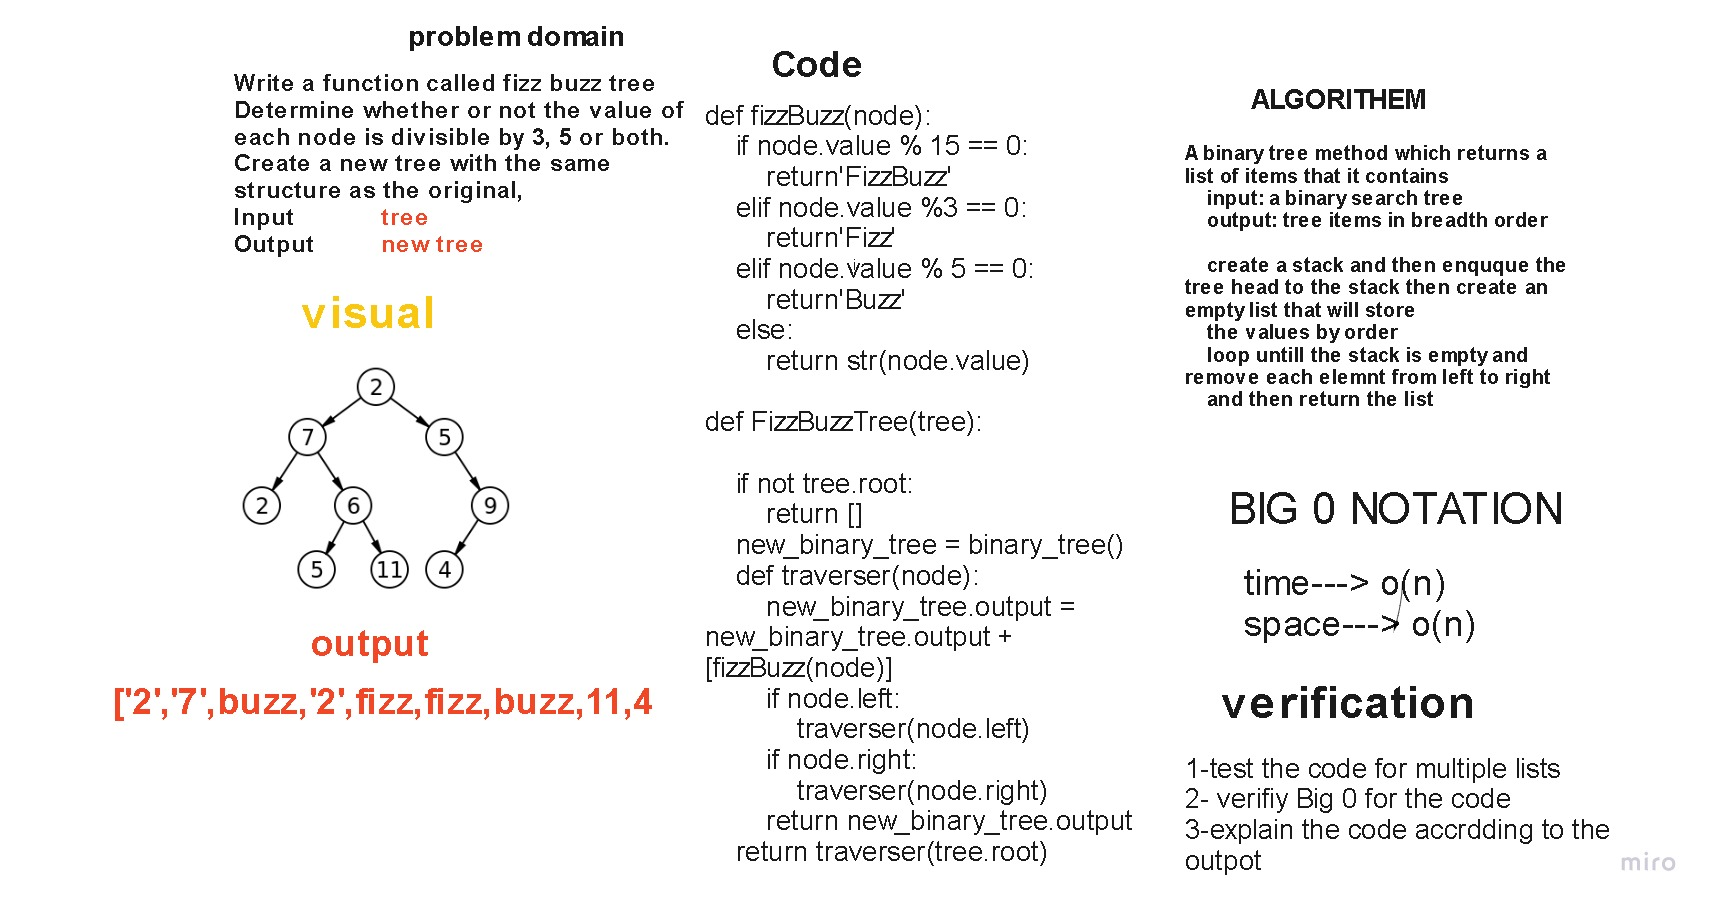
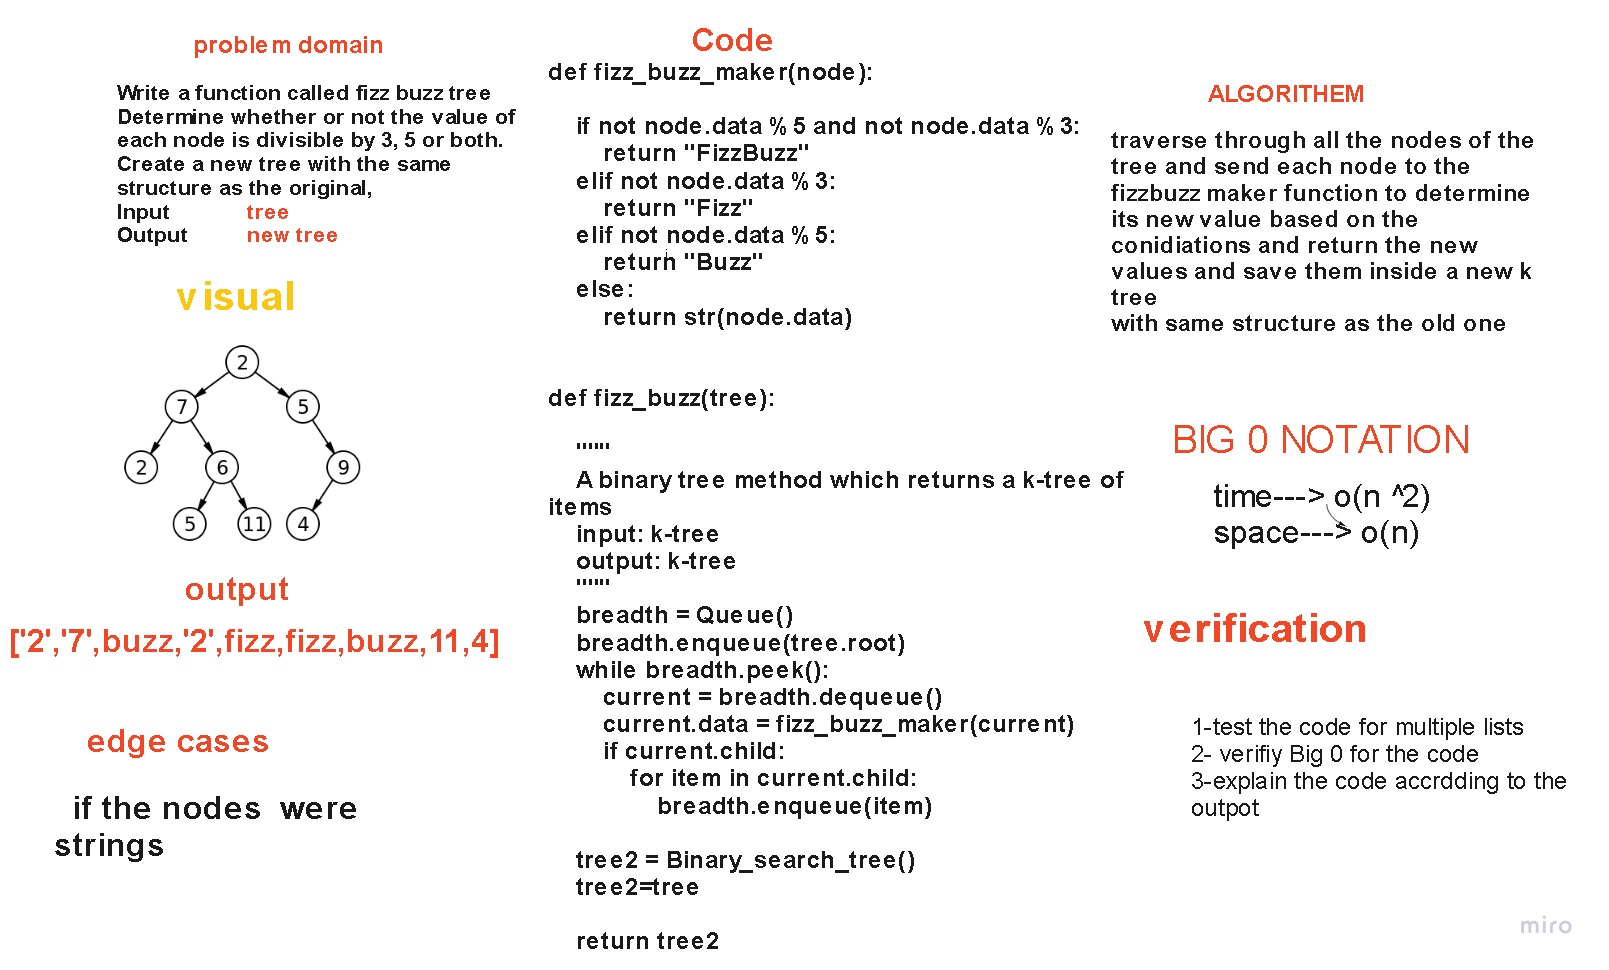
fizz_buzz_function added

diff --git a/python/challenges/tree_fizz_buzz/tree_fizz_buzz.py b/python/challenges/tree_fizz_buzz/tree_fizz_buzz.py
@@ -1,58 +1,97 @@
-class Node():
-    def __init__(self, value = None):
-        self.value = value
-        self.left = None
-        self.right = None
+class Node:
+    def __init__(self, data):
+        self.data = data
+        self.child = []
 
-    def __str__(self):
-        return str(self.value)
 
-class binary_tree():
+class Queue:
+    def __init__(self, collection=[]):
+        self.data = collection
+
+    def peek(self):
+        if len(self.data):
+            return True
+        return False
+
+    def enqueue(self, item):
+        self.data.append(item)
+
+    def dequeue(self):
+        return self.data.pop(0)
+
+
+class Binary_search_tree:
     def __init__(self):
         self.root = None
-        self.output = []
 
-    def pre_order(self, root):
-        # root >> left >> right
-        pre_order_output=[]
-        if root:
-            pre_order_output.append(root.value)
-            pre_order_output = pre_order_output + self.pre_order(root.left)
-            pre_order_output = pre_order_output + self.pre_order(root.right)
-        return pre_order_output
-        
-def fizzBuzz(node):
-    '''
-    If the value is divisible by 3, replace the value with “Fizz”
-    If the value is divisible by 5, replace the value with “Buzz”
-    If the value is divisible by 3 and 5, replace the value with “FizzBuzz”
-    If the value is not divisible by 3 or 5, simply turn the number into a String
+    # def bfs(self):
+    #     """
+    #     A binary tree method which returns a list of items that it contains
+    #     input: None
+    #     output: tree items
+    #     """
+    #     breadth = Queue()
+    #     breadth.enqueue(self.root)
 
-    '''
-    if node.value % 15 == 0:
-        return'FizzBuzz'
-    elif node.value %3 == 0:
-        return'Fizz'
-    elif node.value % 5 == 0:
-        return'Buzz'
+    #     list_of_items = []
+    #     while breadth.peek():
+    #         front = breadth.dequeue()
+    #         list_of_items += [front.data]
+    #         if front.child:
+    #             for item in front.child:
+    #                 breadth.enqueue(item)
+    #     return list_of_items
+
+
+def fizz_buzz_maker(node):
+
+    if not node.data % 5 and not node.data % 3:
+        return "FizzBuzz"
+    elif not node.data % 3:
+        return "Fizz"
+    elif not node.data % 5:
+        return "Buzz"
     else:
-        return str(node.value)
+        return str(node.data)
 
-def FizzBuzzTree(tree):
-    '''
-     Arguments: k-ary tree
-      Return: new k-ary tree
-      Determine whether or not the value of each node is divisible by 3, 5 or both.
-     Create a new tree with the same structure as the original, 
-    '''
-    if not tree.root:
-        return []
-    new_binary_tree = binary_tree()
-    def traverser(node):
-        new_binary_tree.output = new_binary_tree.output + [fizzBuzz(node)]
-        if node.left:           
-            traverser(node.left)
-        if node.right:
-            traverser(node.right)
-        return new_binary_tree.output
-    return traverser(tree.root) 
+
+def fizz_buzz(tree):
+
+    """
+    A binary tree method which returns a k-tree of items 
+    input: k-tree
+    output: k-tree
+    """
+    breadth = Queue()
+    breadth.enqueue(tree.root)
+    while breadth.peek():
+        current = breadth.dequeue()
+        current.data = fizz_buzz_maker(current)
+        if current.child:
+            for item in current.child:
+                breadth.enqueue(item)
+     
+    tree2 = Binary_search_tree()
+    tree2=tree
+    
+    return tree2
+
+
+tree = Binary_search_tree()
+a_node = Node(3)
+b_node = Node(6)
+c_node = Node(9)
+d_node = Node(4)
+e_node = Node(5)
+f_node = Node(15)
+
+
+a_node.child.append(b_node)
+a_node.child.append(d_node)
+b_node.child.append(c_node)
+c_node.child.append(e_node)
+a_node.child.append(f_node)
+tree.root = a_node
+
+
+print(fizz_buzz(tree).bfs())

diff --git a/python/tests/test_fizz_buzz.py b/python/tests/test_fizz_buzz.py
@@ -1,20 +1,24 @@
-from challenges.tree_fizz_buzz.tree_fizz_buzz import (FizzBuzzTree,Node,binary_tree)
-
+from challenges.tree_fizz_buzz.tree_fizz_buzz import *
 
 
 
 
 def  test_fizz_buzz():
-    bt = binary_tree()
-    bt.root = Node(12)
-    bt.root.left = Node(15)
-    bt.root.right = Node(5)
-    bt.root.left.right = Node(6)
-    bt.root.left.left = Node(8)
-    bt.root.right.right=Node(9)
-    bt.root.right.right.left=Node(4)
-    bt.root.left.left.right=Node(5)
-    bt.root.left.right.left = Node(11)
-    expected = ['Fizz','FizzBuzz','8','Buzz','Fizz','11','Buzz','Fizz','4']
-    actual = FizzBuzzTree(bt)
-    assert expected == actual
+    tree = Binary_search_tree()
+    a_node = Node(3)             #        3       
+    b_node = Node(6)             #  6     4    15
+    c_node = Node(9)             #  9
+    d_node = Node(4)              # 5
+    e_node = Node(5)
+    f_node = Node(15)
+
+
+    a_node.child.append(b_node)
+    a_node.child.append(d_node)
+    b_node.child.append(c_node)
+    c_node.child.append(e_node)
+    a_node.child.append(f_node)
+    tree.root = a_node
+    expected=['Fizz', 'Fizz', '4', 'FizzBuzz', 'Fizz', 'Buzz']
+    actul=fizz_buzz(tree)
+    assert actul==expected
